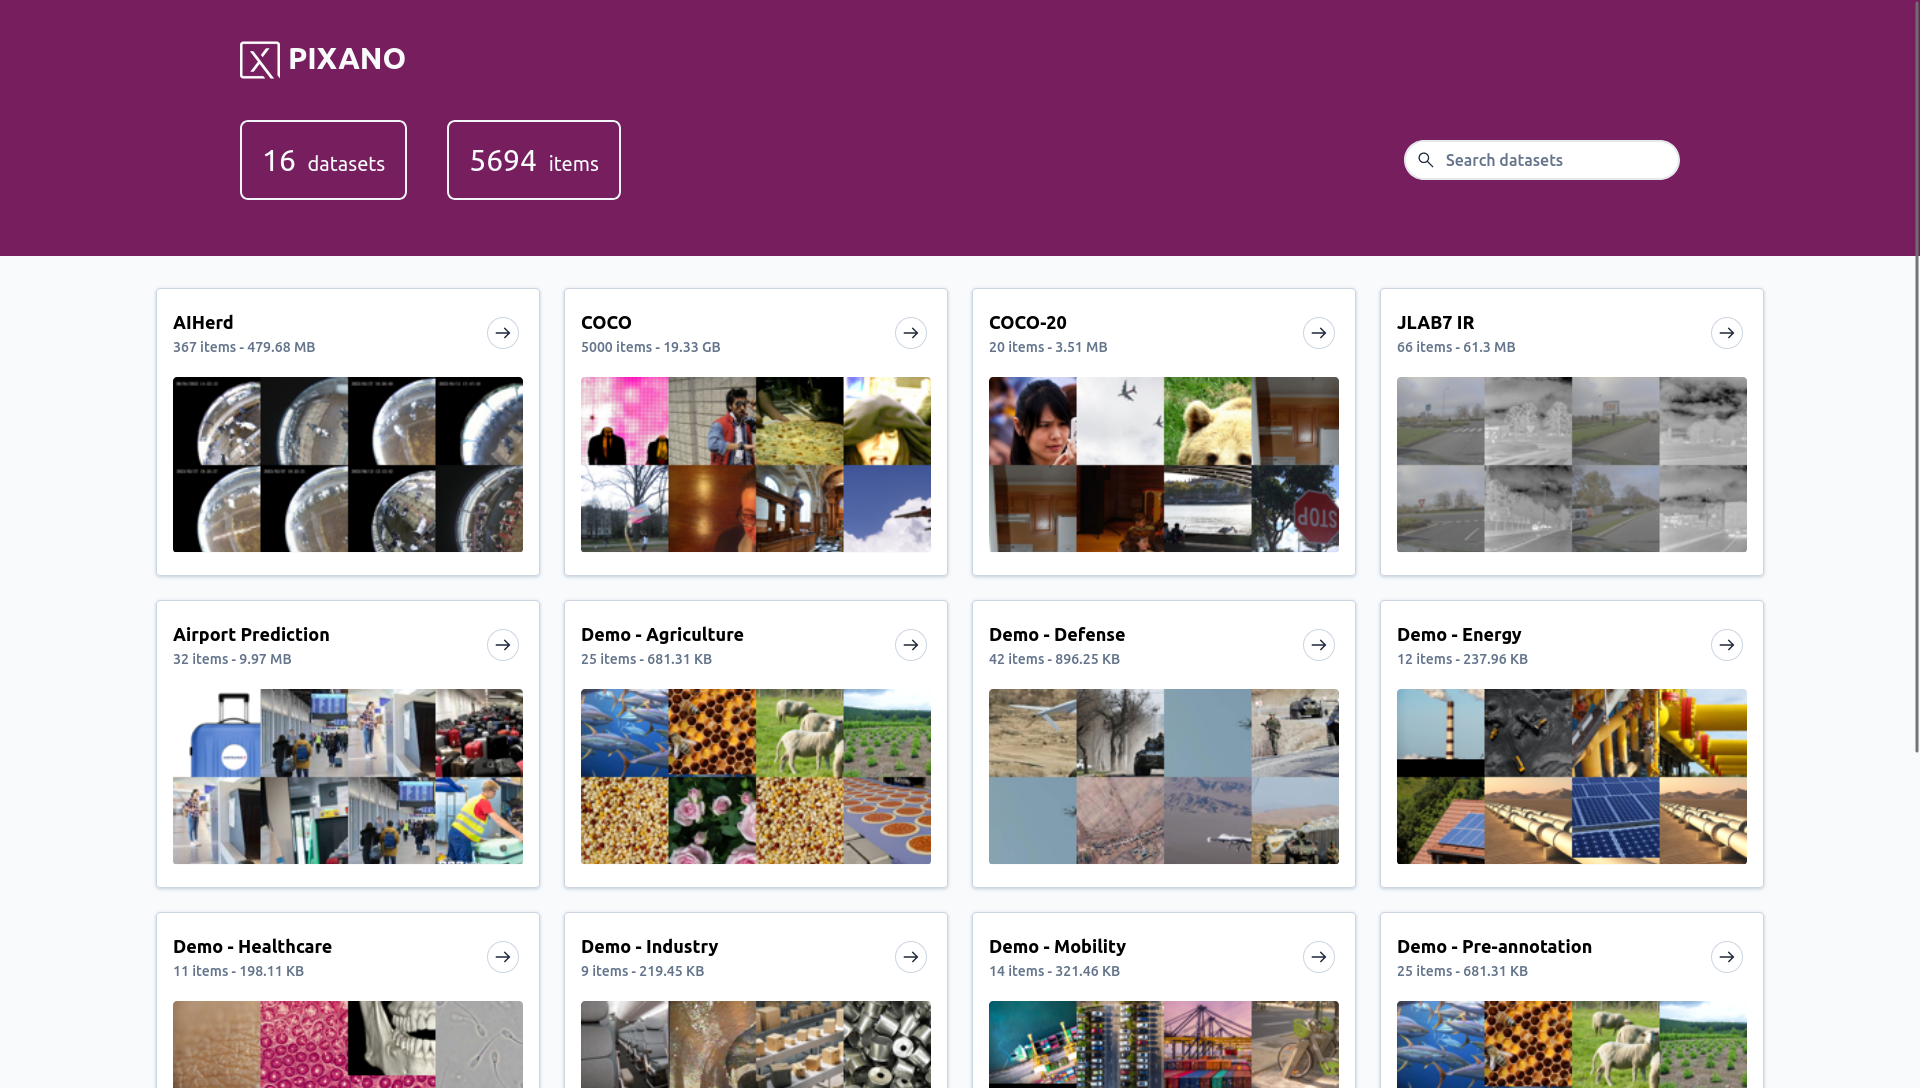
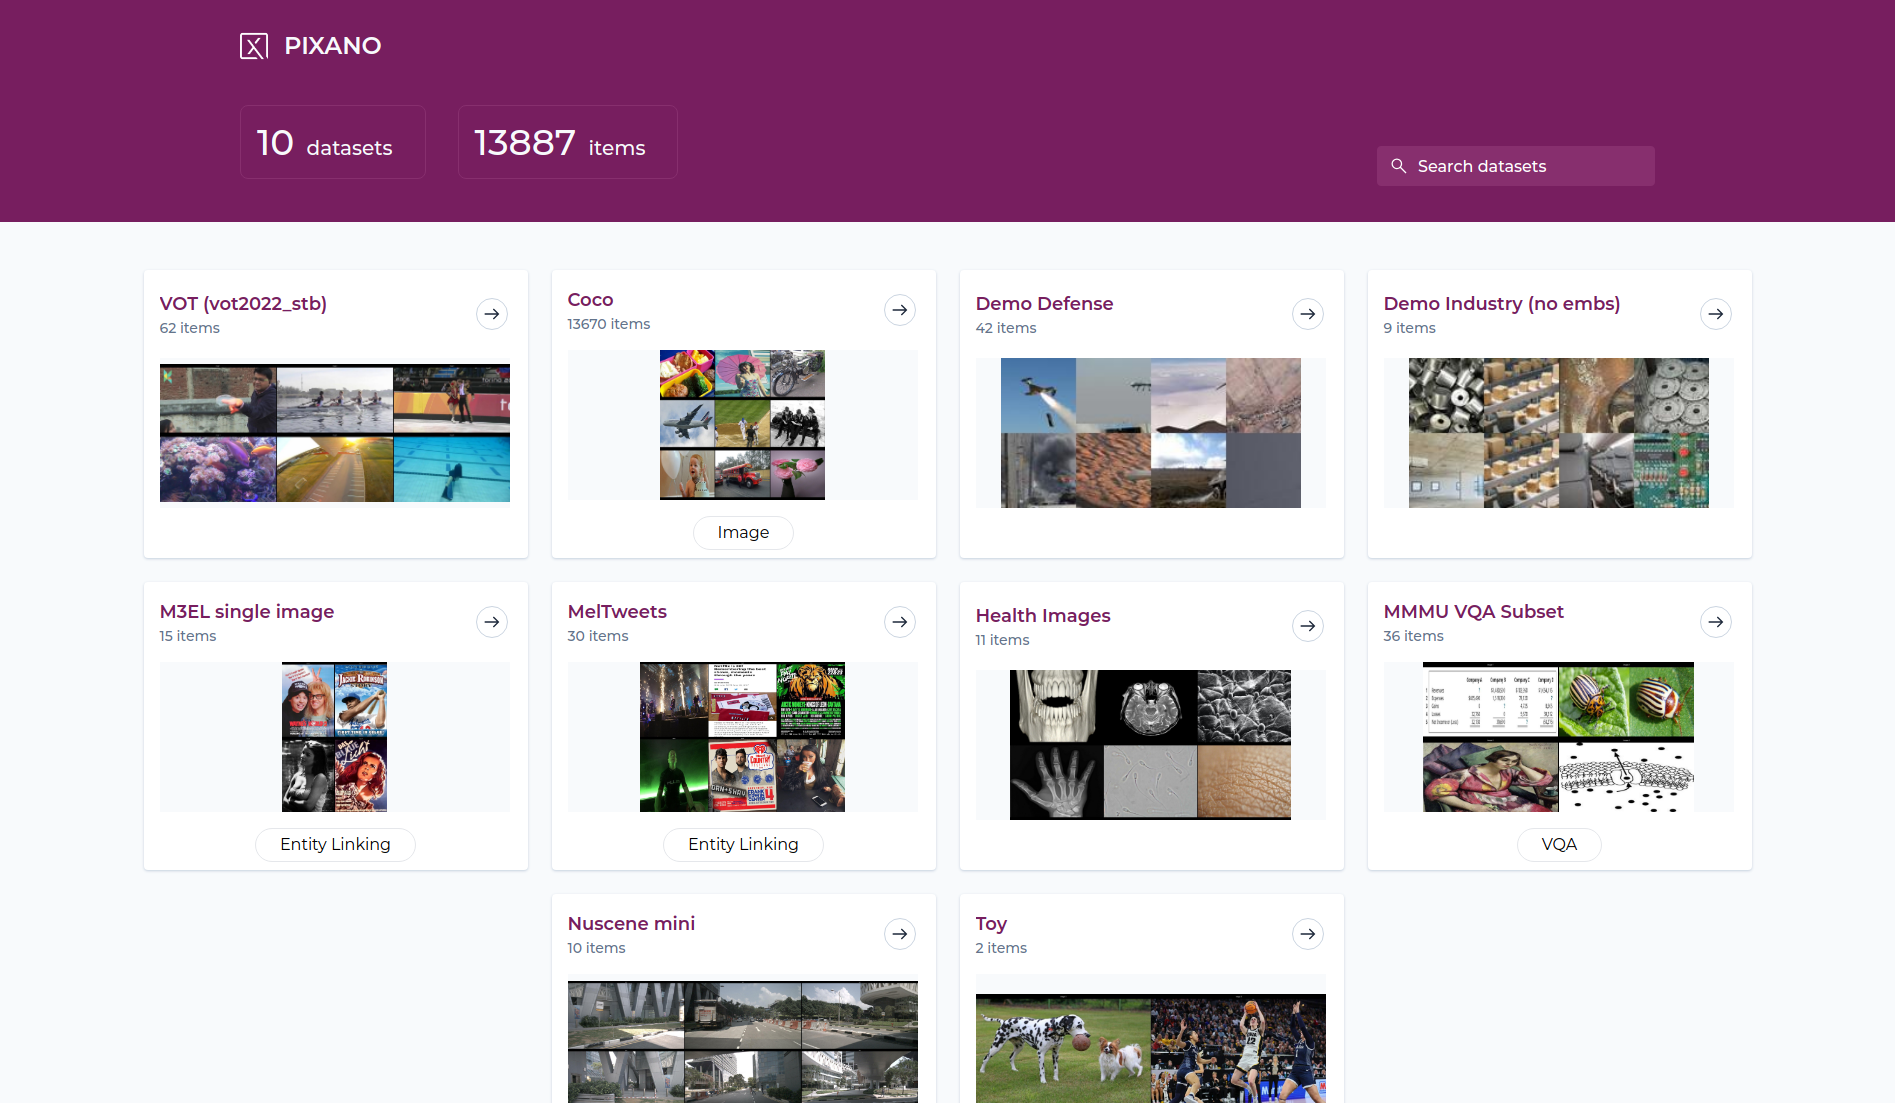
user manual wip

diff --git a/docs/getting_started/using_the_app.md b/docs/getting_started/using_the_app.md
@@ -6,15 +6,22 @@
 
 From the app home page, you will be greeted with a list of all the Pixano format datasets found in the directory you provided.
 
+On this page header is displayed number of datasets and total number of items in datasets. A field allow to filter datasets by contained text.
+
+Each dataset card display dataset name, number of items, an image (currently user-defined), and the dataset kind (Image, Video, VQA or EntityLinking), if defined.
+
+When hovering over a dataset card, a tooltip will display this dataset specific information: name, description, maximum number of views, total number of entities, as well as a count of each different annotations.
+
+Clicking on a dataset card will lead to this dataset page.
+
+
 ## Dataset page
 
-![Pixano dataset page - top](../assets/user/app_dataset_1.png)
+![Pixano dataset page](../assets/user/app_dataset.png)
 
 On the dataset page, you will see a list of all the items it contains, organized in pages.
 
-![Pixano dataset page - bottom](../assets/user/app_dataset_2.png)
-
-Navigation buttons at the page bottom allows to move through the pages of your dataset.
+Navigation buttons at bottom allows to move through the pages of your dataset.
 
 ## Dashboard page
 
